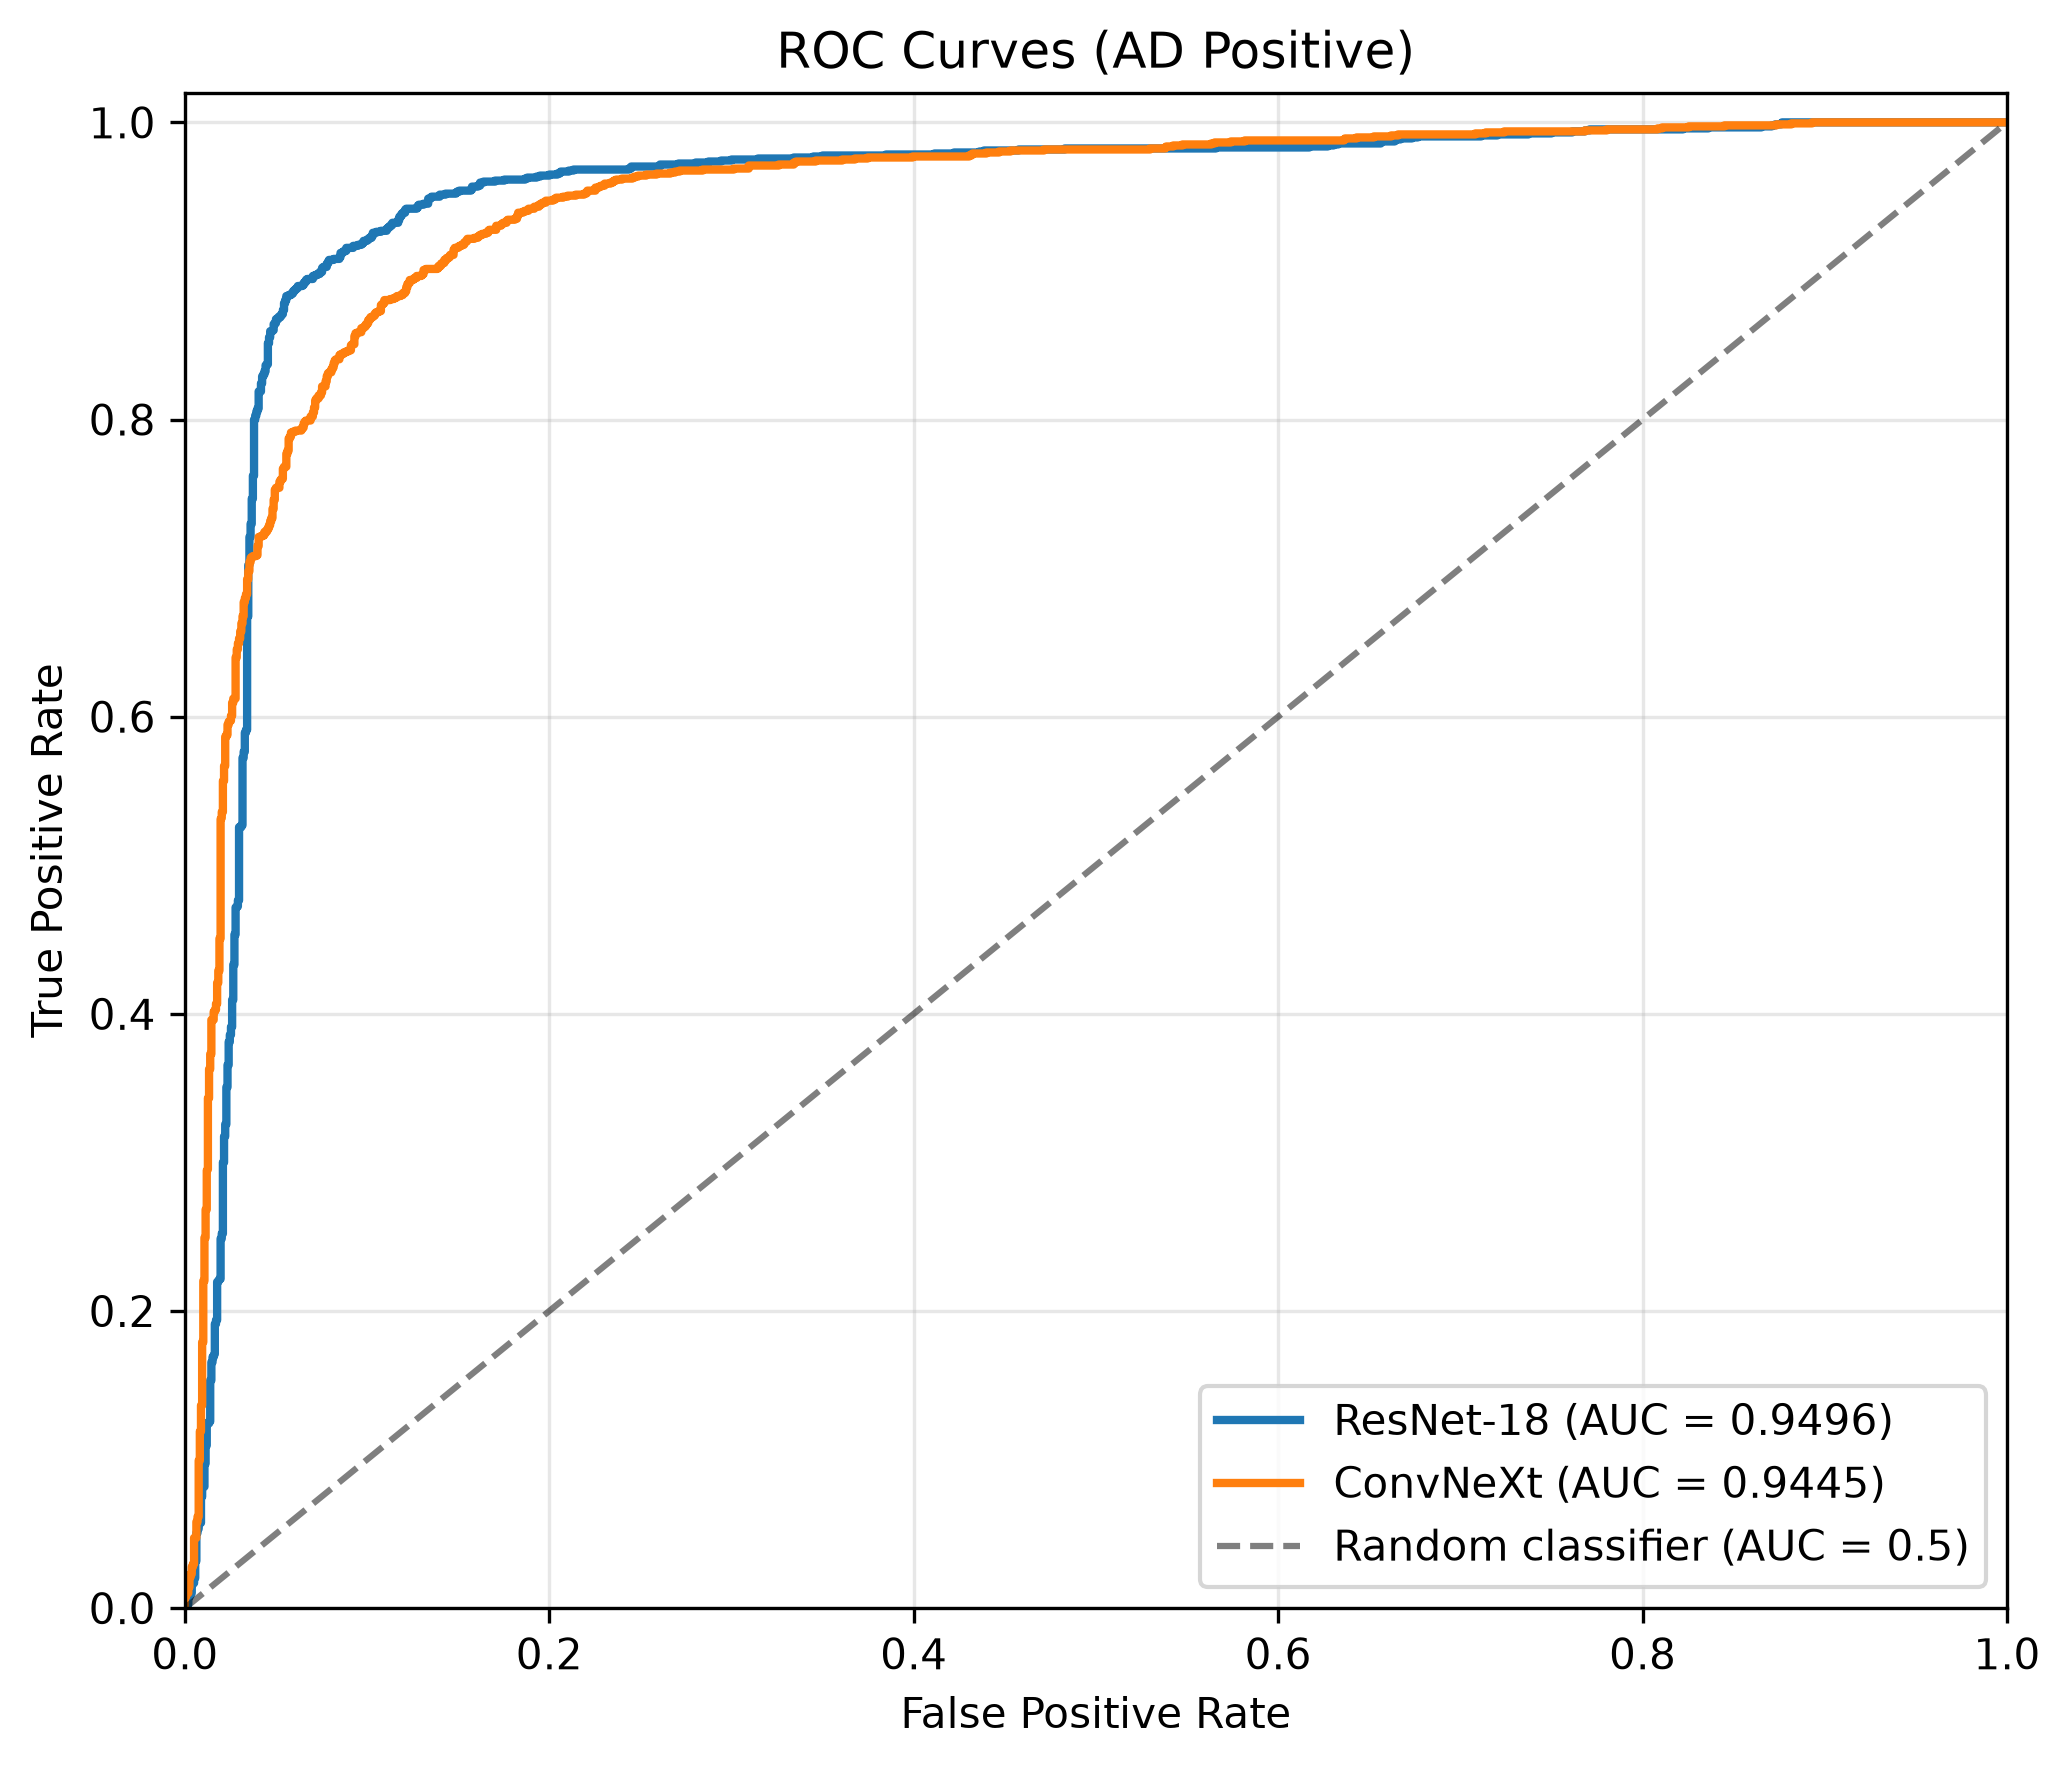
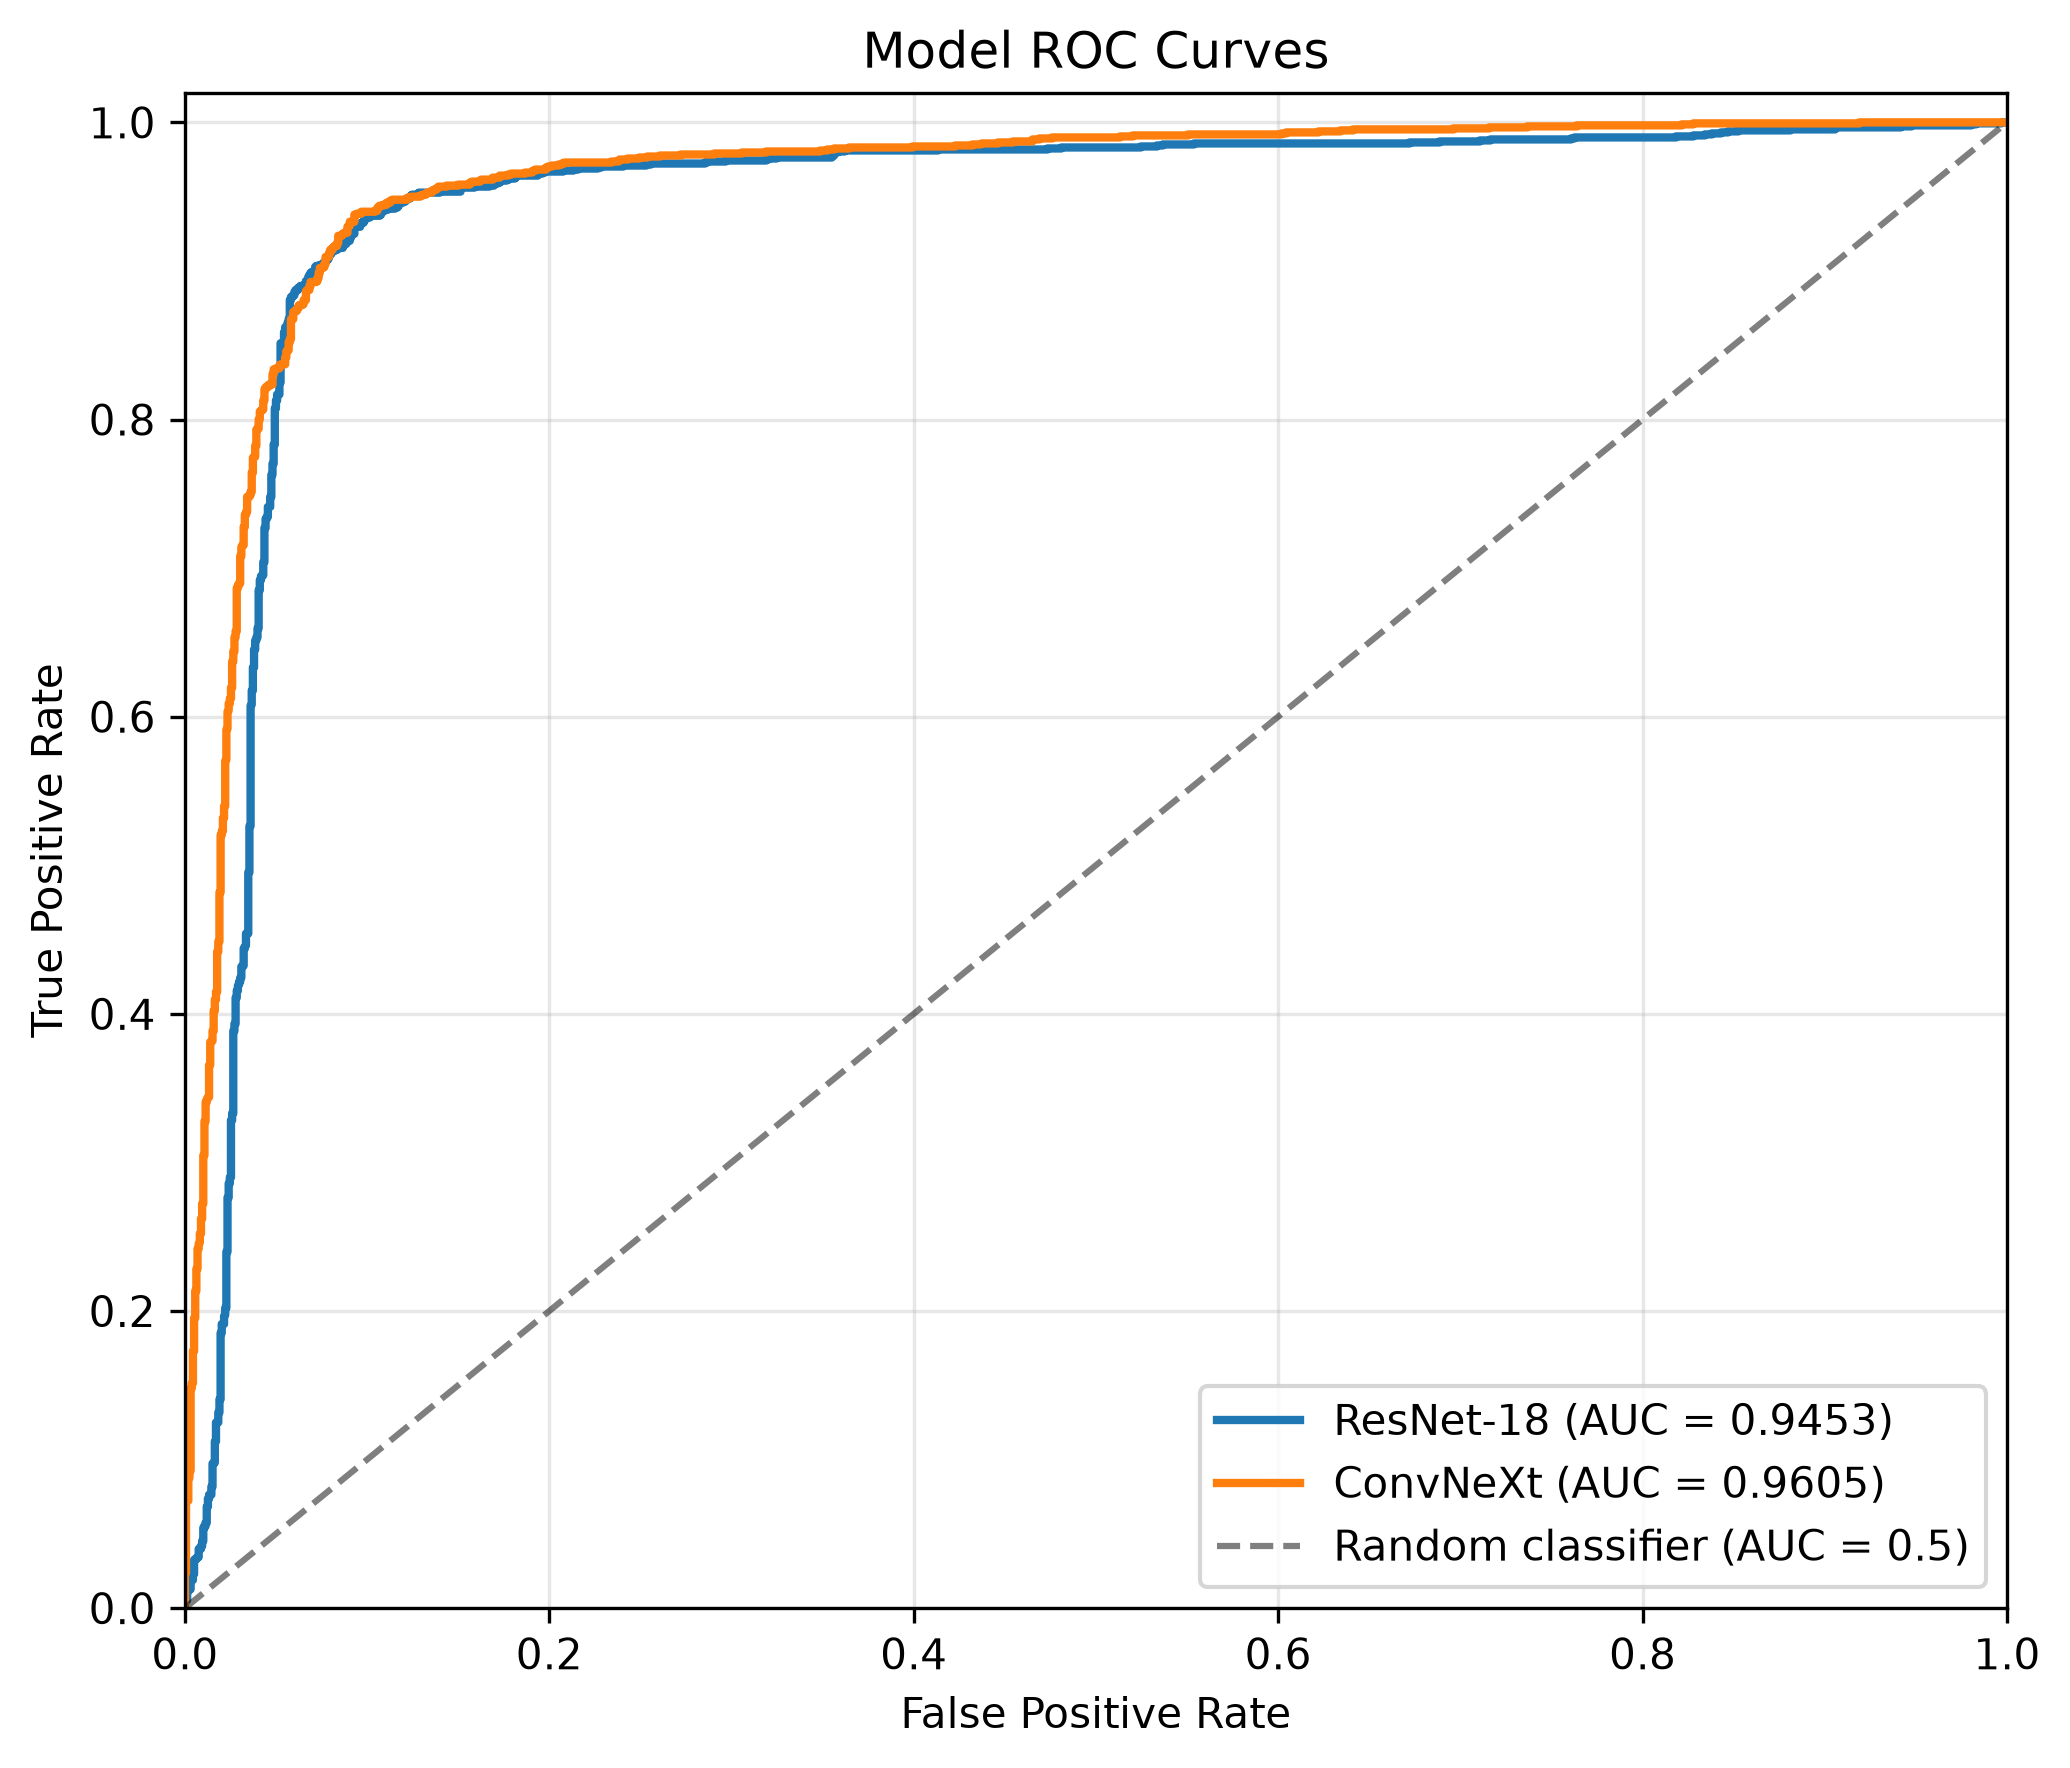
added --dataset-root argument to train.py

Changed region(s): [[0.0928, 0.0, 0.9275, 0.9021], [0.8657, 0.8088, 0.8966, 0.8399]]

diff --git a/recognition/ConvNeXt_48900353/train.py b/recognition/ConvNeXt_48900353/train.py
@@ -266,6 +266,7 @@ def parse_args():
     parser = argparse.ArgumentParser(
         description="Train an ADNI image classification model."
     )
+    parser.add_argument("--dataset-root", default=DATASET_ROOT)
     parser.add_argument("--seed", type=int, default=SEED)
     parser.add_argument(
         "--model-name",
@@ -319,7 +320,7 @@ def main():
 
     # get train, validation, and test data loaders
     train_loader, val_loader, test_loader = create_dataloaders(
-        dataset_root=DATASET_ROOT,
+        dataset_root=args.dataset_root,
         class_names=CLASS_NAMES,
         dataset_split_names=DATASET_SPLIT_NAMES,
         label_map=LABEL_MAP,

diff --git a/recognition/ConvNeXt_48900353/README.md b/recognition/ConvNeXt_48900353/README.md
@@ -82,6 +82,8 @@ Both models suffered from overfitting to the training set quickly reaching `100%
 
 Augmentation expands the appearances observed during learning without adding more patients. This helped the model generalise improving validation accuracy.
 
+![Before and After of Training Images](images/augmentation.png)
+
 ## 4. Hyperparameters and Training Methodology
 
 
@@ -131,17 +133,16 @@ The model saved was from epoch `167` which achieved the highest validation accur
 The final model was evaluated on the hold out test set. The confusion matrix and test metrics below shows the model's performance on this unseen data.
 
 
-![alt text](images/resnet_confusion_matrix.png)
+![ResNet-18 Confusion Matrix](images/resnet_confusion_matrix.png)
 
 | Metric | ResNet-18 |
 | --- | --- |
 | Accuracy | **91.24%** 
-| ROC-AUC | **94.54** |
 | F1 | **91.25%** |
 | Precision (AD positive) | **88.26%** |
 | Recall (AD positive) | **94.46%** |
 
-The model achieved strong performance on the test set, with an accuracy of `91.24%`, F1-score of `91.25%` and ROC-AUC of `94.54%`. Importantly, the model achieved an AD recall of `94.46%` indicating that it successfully identified the majority of Alzheimer's cases. The model also achieved an AD precision of `88.26%` meaning majority of images predicted as Alzheimer's were correctly classified.
+The model achieved strong performance on the test set, with an accuracy of `91.24%`, and F1-score of `91.25%`. Importantly, the model achieved an AD recall of `94.46%` indicating that it successfully identified the majority of Alzheimer's cases. The model also achieved an AD precision of `88.26%` meaning majority of images predicted as Alzheimer's were correctly classified.
 
 ## 6. ConvNeXt Model Results
 ### 6.1 Training History
@@ -158,11 +159,10 @@ The model saved was from epoch `172` which achieved the highest validation accur
 | --- | --- |
 | Accuracy | **91.63%** 
 | F1-score | **91.61%** |
-| ROC-AUC | **95.96%** |
 | Precision (AD positive) | **88.93%** |
 | Recall (AD positive) | **94.46%** |
 
-ConvNeXt achieved stronger performance on the test set compared to ResNet-18, with an accuracy of `91.63%`, F1-score of `91.61%` and ROC-AUC of `95.96%`. The model achieved a higher AD precision of `88.93%` but had an equal AD recall of `94.46%` compared to ResNet-18.
+ConvNeXt achieved stronger performance on the test set compared to ResNet-18, with an accuracy of `91.63%` and F1-score of `91.61%`. The model achieved a higher AD precision of `88.93%` but had an equal AD recall of `94.46%` compared to ResNet-18.
 
 ConvNeXt produced `12` fewer false positives to ResNet-18, demonstrating slightly better specificity while maintaining the same sensitivity.
 
@@ -173,13 +173,11 @@ High sensitivity is particularly important for this Alzheimer's disease classifi
 Therefore, the consequence of missing a true Alzheimer's case is more significant than incorrectly flagging a healthy individual for further investigation.
 
 ### 7.2 Comparison of Model Results
-Comparing the performance of both models, ResNet-18 outperformed ConvNeXt across all evaluated test metrics, achieving higher acurracy, F1-score, and ROC-AUC.
+Comparing the performance of both models, ConvNeXt outperformed ResNet-18 across all evaluated test metrics, achieving higher acurracy, F1-score, precision and recall.
 
 ![Model ROC Curves](images/roc_curves.png)
 
-The ROC curves display that both models can strongly discriminate between classes with ResNet-18 generally achieving higher sensitivity at low false positive rates, making it more effective at identifying Alzheimer's disease cases while limiting incorrect classifications of normal cognitive images.
-
-Importantly, ResNet-18 achieved a higher sensitivity, resulting in only `90` false negatives compared to ConvNeXt's `111`. This means ResNet-18 missed `21` fewer AD images, while also producing `71` fewer false positives.
+The ROC curves demonstrate that both ResNet-18 and ConvNeXt achieve strong performance in distinguishing between Alzheimer's disease and normal brain images. However, ConvNeXt achieves a higher ROC-AUC of `96.05%` compared to ResNet-18's `94.53%`, indicating better overall performance across different classification thresholds. ConvNeXt generally achieves a higher sensitivity at lower false positive rates, suggesting that it is more effective at identifying Alzeheimer's cases while minimising the number of healthy individuals incorrectly classified as having the disease. This makes it a more promising model for preliminary Alzheimer's screening.
 
 ### 7.3 Comparison of Model Computational Efficiency
 To measure the difference in inference time and GPU VRAM usage, both models ran inference on the same image from the test set, and only started measuring after the dataset loading and preprocessing was complete.
@@ -187,8 +185,8 @@ To measure the difference in inference time and GPU VRAM usage, both models ran 
 
 | Model     | Inference Time | Peak VRAM Usage |
 | --------- | -------------- | --------------- |
-| ResNet-18 | 0.1521s        | 74.86 MB        |
-| ConvNeXt  | 0.2999s        | 154.38 MB       |
+| ResNet-18 | 0.1659s        | 74.86 MB        |
+| ConvNeXt  | 0.2891s        | 154.38 MB       |
 
 From the table it can be seen that both models ran inference on the same test image in less than half a second. ConvNeXt used over twice the amount of VRAM compared to ResNet-18, however this is still easily within the available VRAM of most modern devices. 
 
@@ -196,7 +194,7 @@ This shows that both models can be used in a clinical setting on a modern device
 
 ### 7.4 Final Result
 
-Due to ResNet-18 performing better on the hold out test set, and requiring less computational resources, **ResNet-18 is clearly the better performing model for this task**.
+Due to ConvNext performing better on the hold out test set, **ConvNeXt is the better performing model for this task**.
 
 ## 8. Usage Instructions
 ### 8.1 Environment Setup
@@ -208,20 +206,15 @@ pip install -r requirements.txt
 ```
 
 ### 8.2 Training
-Run training with the default configuration using:
+Run training using with:
 
 ```bash
-python train.py
-```
-
-The training configuration can be changed with optional command-line arguments:
-
-```bash
-python train.py --model-name resnet18 --seed [SEED] --epochs [EPOCHS] --batch-size [BATCH SIZE] --learning-rate [LEARNING RATE] --weight-decay [WEIGHT DECAY] --warmup-epochs [NUM WARMUP EPOCHS] --num-workers [NUMB LOADER WORKERS]
+python train.py --dataset-root [DATASET ROOT] --model-name resnet18 --seed [SEED] --epochs [EPOCHS] --batch-size [BATCH SIZE] --learning-rate [LEARNING RATE] --weight-decay [WEIGHT DECAY] --warmup-epochs [NUM WARMUP EPOCHS] --num-workers [NUMB LOADER WORKERS]
 ```
 
 | Optional argument | Description | Default |
 | --- | --- | --- |
+| `--dataset-root` | Path to the ADNI dataset root containing `train/` and `test/` | `~/Documents/Datasets/ADNI/AD_NC` |
 | `--model-name` | Model architecture to train | `resnet18` or `convnext` |
 | `--seed` | Random seed | `42` |
 | `--epochs` | Number of training epochs | `200` |
@@ -236,16 +229,17 @@ Each run creates its own `Models/<model-name>/<model-name>_<timestamp>/` directo
 An example of `test_report.txt` is:
 ```
 Model Training Report:
-Training time: 135m 22s
-Average time per epoch: 39.78s
+Training time: 88m 12s
+
+Average time per epoch: 26.46s
 
 Test Set Evaluation Report:
-Test loss: 0.3994
-Accuracy: 0.8784
-Precision (AD positive): 0.8399
-Recall (AD positive): 0.9250
-F1 Score (AD positive): 0.8804
-ROC AUC: 0.9445
+Test loss: 0.3601
+Accuracy: 0.9163
+Precision (AD positive): 0.8893
+Recall (AD positive): 0.9446
+F1 Score (AD positive): 0.9161
+ROC AUC: 0.9596
 Support: 3060
 Negative support: 1580
 Positive support: 1480
